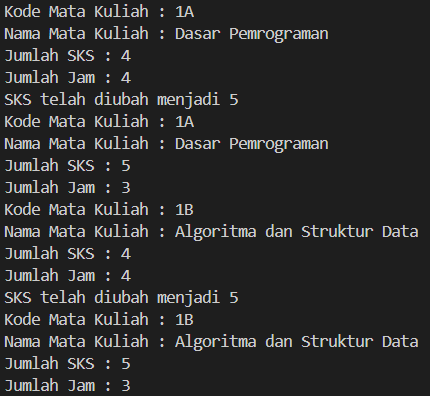
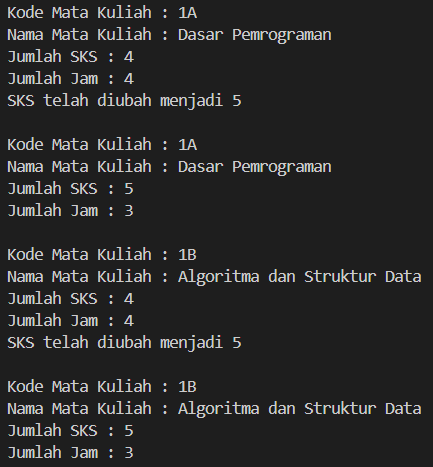
up soal

Changed region(s): [[0.0, 0.0, 0.9977, 1.0], [0.5442, 0.2121, 0.5744, 0.2727]]

diff --git a/Minggu 2 - 21 Februari/Dosen01.java b/Minggu 2 - 21 Februari/Dosen01.java
@@ -1,0 +1,49 @@
+public class Dosen01 {
+    String idDosen, bidangKeahlian, nama;
+    int tahunBergabung;
+    boolean statusAktif;
+
+    public Dosen01() {
+
+    }
+
+    public Dosen01(String idDosen, String nama, String bidangKeahlian, int tahunBergabung) {
+        this.idDosen = idDosen;
+        this.nama = nama;
+        this.bidangKeahlian = bidangKeahlian;
+        this.tahunBergabung = tahunBergabung;
+        statusAktif = true;
+    }
+
+    void tampilInformasi() {
+        System.out.println("ID Dosen : " + idDosen);
+        System.out.println("Nama : " + nama);
+        System.out.println("Bidang Keahlian : " + bidangKeahlian);
+        System.out.println("Tahun Bergabung : " + tahunBergabung);
+        if (statusAktif == true) {
+            System.out.println("Status : Aktif");
+        } else if (statusAktif == false) {
+            System.out.println("Status : Tidak Aktif");
+
+        }
+
+    }
+
+    void setStatusAktif(boolean status) {
+        if (status == true) {
+            statusAktif = true;
+        } else  {
+            statusAktif = false;
+        }
+    }
+
+    int hitungMasaKerja(int thnSkrg) {
+        return thnSkrg -= tahunBergabung;
+
+    }
+
+    void ubahKeahlian(String bidang) {
+        bidangKeahlian = bidang;
+    }
+
+}

diff --git a/Minggu 2 - 21 Februari/DosenMain01.java b/Minggu 2 - 21 Februari/DosenMain01.java
@@ -1,0 +1,28 @@
+public class DosenMain01 {
+    public static void main(String[] args) {
+        int tahun = 2025;
+
+        Dosen01 dosen1 = new Dosen01();
+        dosen1.idDosen = "1A";
+        dosen1.nama = "Adam";
+        dosen1.bidangKeahlian = "Matematika";
+        dosen1.tahunBergabung = 2024;
+
+        dosen1.tampilInformasi();
+        dosen1.setStatusAktif(false);
+        System.out.println("Lama Tahun Kerja " + dosen1.nama + " : " + dosen1.hitungMasaKerja(tahun));
+        dosen1.ubahKeahlian("Komputer");
+        System.out.println();
+        dosen1.tampilInformasi();
+        System.out.println();
+
+        Dosen01 dosen2 = new Dosen01("2A", "Tiara", "Komputer", 2022);
+
+        dosen2.tampilInformasi();
+        dosen2.setStatusAktif(false);
+        System.out.println("Lama Tahun Kerja " + dosen2.nama + " : " + dosen2.hitungMasaKerja(tahun));
+        dosen2.ubahKeahlian("Matematika");
+        System.out.println();
+        dosen2.tampilInformasi();
+    }
+}

diff --git a/Minggu 2 - 21 Februari/MataKuliahMain01.java b/Minggu 2 - 21 Februari/MataKuliahMain01.java
@@ -10,7 +10,9 @@ public static void main(String[] args) {
     matkul1.ubahSKS(5);
     matkul1.tambahJam(1);
     matkul1.kurangiJam(2);
+    System.out.println();
     matkul1.tampilInformasi();
+    System.out.println();
 
     MataKuliah01 matkul2 = new MataKuliah01("1B", "Algoritma dan Struktur Data", 4, 4);
 
@@ -18,7 +20,9 @@ public static void main(String[] args) {
     matkul2.ubahSKS(5);
     matkul2.tambahJam(1);
     matkul2.kurangiJam(2);
+    System.out.println();
     matkul2.tampilInformasi();
+    
 }
     
 }

diff --git a/Minggu 2 - 21 Februari/report2.md b/Minggu 2 - 21 Februari/report2.md
@@ -1,0 +1,94 @@
+|  | Algorithm and Data Structure |
+|--|--|
+| **NIM** |  244107020207 |
+| **Nama** |  Adam Bahy Maulana |
+| **Kelas** | TI - 1H |
+| **Repository** | [GitHub Repository](https://github.com/adambahyn/01_AdamBahyMaulana_PRAKALSD) |
+
+# Jobsheet 2
+
+## 2.1 Percobaan 1: Deklarasi Class, Atribut, dan Method
+
+![Screenshot](1.png)
+
+### **2.1.3 Pertanyaan**
+1. **Sebutkan dua karakteristik class atau object!**
+   - Class adalah rancangan atau template dari entitas yang nyata. Class memiliki atribut dan method, serta metode khusus bernama konstruktor.
+2. **Perhatikan class Mahasiswa pada Praktikum 1 tersebut, ada berapa atribut yang dimiliki oleh class Mahasiswa? Sebutkan apa saja atributnya!**
+   - Terdapat 4 atribut: `nama`, `nim`, `kelas`, dan `ipk`.
+3. **Ada berapa method yang dimiliki oleh class tersebut? Sebutkan apa saja methodnya!**
+   - Terdapat 4 method: `tampilkanInformasi()`, `ubahKelas(String kelasBaru)`, `updateIpk(double ipkBaru)`, dan `nilaiKinerja()`.
+4. **Perbaiki kesalahan pada potongan kode berikut!**
+   ```java
+   if (ipkBaru >= 0.0 && ipkBaru <= 4.0) {
+       ipk = ipkBaru;
+   } else {
+       System.out.println("IPK tidak valid. Harus antara 0.0 dan 4.0");
+   }
+   ```
+5. **Jelaskan bagaimana cara kerja method nilaiKinerja() dalam mengevaluasi kinerja mahasiswa, kriteria apa saja yang digunakan untuk menentukan nilai kinerja tersebut, dan apa yang dikembalikan (di-return-kan) oleh method nilaiKinerja() tersebut?**
+   - Method ini memeriksa nilai IPK menggunakan `if-else` dan mengembalikan `String` sesuai kondisi yang terpenuhi.
+6. **Commit Github :**
+   ![Screenshot](2.png)
+
+---
+
+## 2.2 Percobaan 2: Instansiasi Object, serta Mengakses Atribut dan Method
+
+![Screenshot](3.png)
+
+### **2.2.3 Pertanyaan**
+1. **. Pada class MahasiswaMain, tunjukkan baris kode program yang digunakan untuk proses instansiasi! Apa nama object yang dihasilkan?**
+   - `mhs1` ![Screenshot](4.png)
+2. **Bagaimana cara mengakses atribut dan method dari suatu objek?**
+   - **Atribut:** `objek.atribut`
+   - **Method:** `objek.method()`
+3. **Mengapa hasil output pemanggilan method tampilkanInformasi() pertama dan kedua berbeda?**
+   - Karena atribut `kelas` dan `ipk` dari objek `mhs1` telah diubah.
+
+---
+
+## 2.3 Percobaan 3: Membuat Konstruktor
+
+![Screenshot](5.png)
+
+### **Fungsi Mahasiswa01 Secara Keseluruhan**
+1. Menampilkan informasi mahasiswa melalui metode `tampilkanInformasi()`.
+2. Mengubah kelas mahasiswa dengan metode `ubahKelas()`.
+3. Memperbarui nilai IPK dengan validasi rentang (0.0 - 4.0) melalui metode `updateIpk()`.
+4. Menentukan kategori kinerja mahasiswa berdasarkan IPK dengan metode `nilaiKinerja()`.
+
+### **2.3.3 Pertanyaan**
+1. **. Pada class Mahasiswa di Percobaan 3, tunjukkan baris kode program yang digunakan untuk mendeklarasikan konstruktor berparameter!**
+   ![Screenshot](6.png)
+2. **Perhatikan class MahasiswaMain. Apa sebenarnya yang dilakukan pada baris program berikut?**
+   - Objek `mhs2` dibuat menggunakan konstruktor dengan parameter.
+3. **Hapus konstruktor default pada class Mahasiswa, kemudian compile dan run program. Bagaimana hasilnya? Jelaskan mengapa hasilnya demikian!**
+   - Bisa, karena di `MahasiswaMain01` terdapat konstruktor tanpa parameter. ![Screenshot](7.png)
+4. **Setelah melakukan instansiasi object, apakah method di dalam class Mahasiswa harus diakses secara berurutan? Jelaskan alasannya!**
+   - Tidak, karena Java menjalankan method sesuai urutan pemanggilan dalam `main()`.
+5. **Buat object baru dengan nama mhs<NamaMahasiswa> menggunakan konstruktor berparameter dari class Mahasiswa!**
+   ![Screenshot](8.png)
+
+---
+
+## 2.4 Latihan Praktikum
+
+### **1. Class MataKuliah01**
+![Screenshot](9.png)
+
+**Fungsi MataKuliah01 Secara Keseluruhan:**
+1. Menampilkan informasi mata kuliah melalui metode `tampilInformasi()`.
+2. Mengubah jumlah SKS dengan metode `ubahSKS()`.
+3. Menambah jumlah jam pertemuan dengan metode `tambahJam()`.
+4. Mengurangi jumlah jam pertemuan dengan metode `kurangiJam()`, yang dilengkapi validasi agar jumlah jam tidak menjadi negatif.
+
+### **2. Class Dosen01**
+![Screenshot](10.png)
+
+**Fungsi Dosen01 Secara Keseluruhan:**
+1. Menampilkan informasi dosen melalui metode `tampilInformasi()`.
+2. Mengubah status aktif dosen dengan metode `setStatusAktif()`.
+3. Menghitung masa kerja dosen berdasarkan tahun saat ini dengan metode `hitungMasaKerja()`.
+4. Mengubah bidang keahlian dosen dengan metode `ubahKeahlian()`.
+

diff --git a/Minggu 2 - 21 Februari/Report.md b/Minggu 2 - 21 Februari/Report.md
@@ -29,6 +29,13 @@
 
 ![Screenshot](3.png)
 
+Fungsi Mahasiswa01 secara kesuluruhan
+1. Menampilkan informasi mahasiswa melalui metode tampilkanInformasi().
+2. Mengubah kelas mahasiswa dengan metode ubahKelas().
+3. Memperbarui nilai IPK dengan validasi rentang (0.0 - 4.0) melalui metode updateIpk().
+4. Menentukan kategori kinerja mahasiswa berdasarkan IPK dengan metode nilaiKinerja().
+
+
 ### 2.2.3 Pertanyaan
 
 1. ![Screenshot](4.png), nama object yang dihasilkan adalah mhs1
@@ -54,4 +61,14 @@
 
 
 ### 1. ![Screenshot](9.png)
-### 2. 
+Fungsi MataKuliah01 secara keseluruhan :
+1. Menampilkan informasi mata kuliah melalui metode tampilInformasi().
+2. Mengubah jumlah SKS dengan metode ubahSKS().
+3. Menambah jumlah jam pertemuan dengan metode tambahJam().
+4. Mengurangi jumlah jam pertemuan dengan metode kurangiJam(), yang dilengkapi validasi agar jumlah jam tidak menjadi negatif.
+### 2. ![Screenshot](10.png)
+Fungsi Dosen01 secara keseluruhan :
+1. Menampilkan informasi dosen melalui metode tampilInformasi().
+2. Mengubah status aktif dosen dengan metode setStatusAktif().
+3. Menghitung masa kerja dosen berdasarkan tahun saat ini dengan metode hitungMasaKerja().
+4. Mengubah bidang keahlian dosen dengan metode ubahKeahlian().
